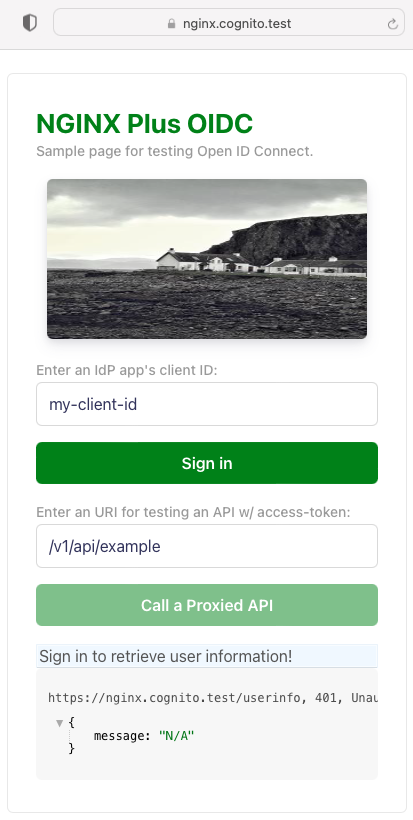
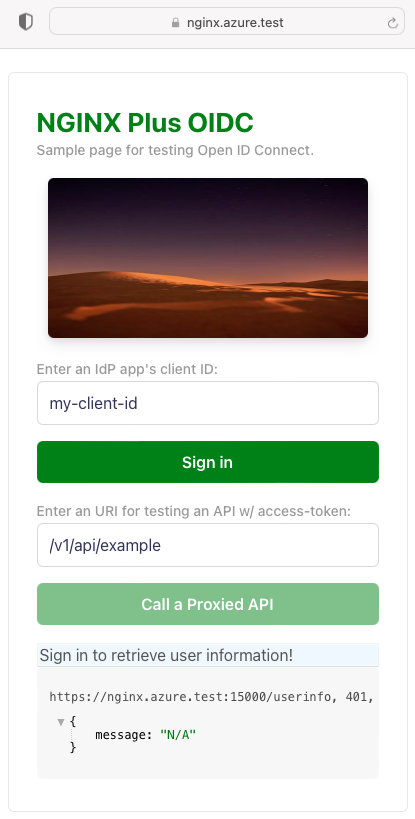
feat: container test

diff --git a/docs/03-Container-Test.md b/docs/03-Container-Test.md
@@ -47,7 +47,7 @@ Take the following steps to run NGINX Plus in a Docker container and test OIDC f
 
   Enter your name and password which are registered in Azure AD.
 
-  ![](./img/login-cognito.png)
+  ![](./img/login-azure.png)
 
   You will see the following screen once you are successfully signed-in.
 
